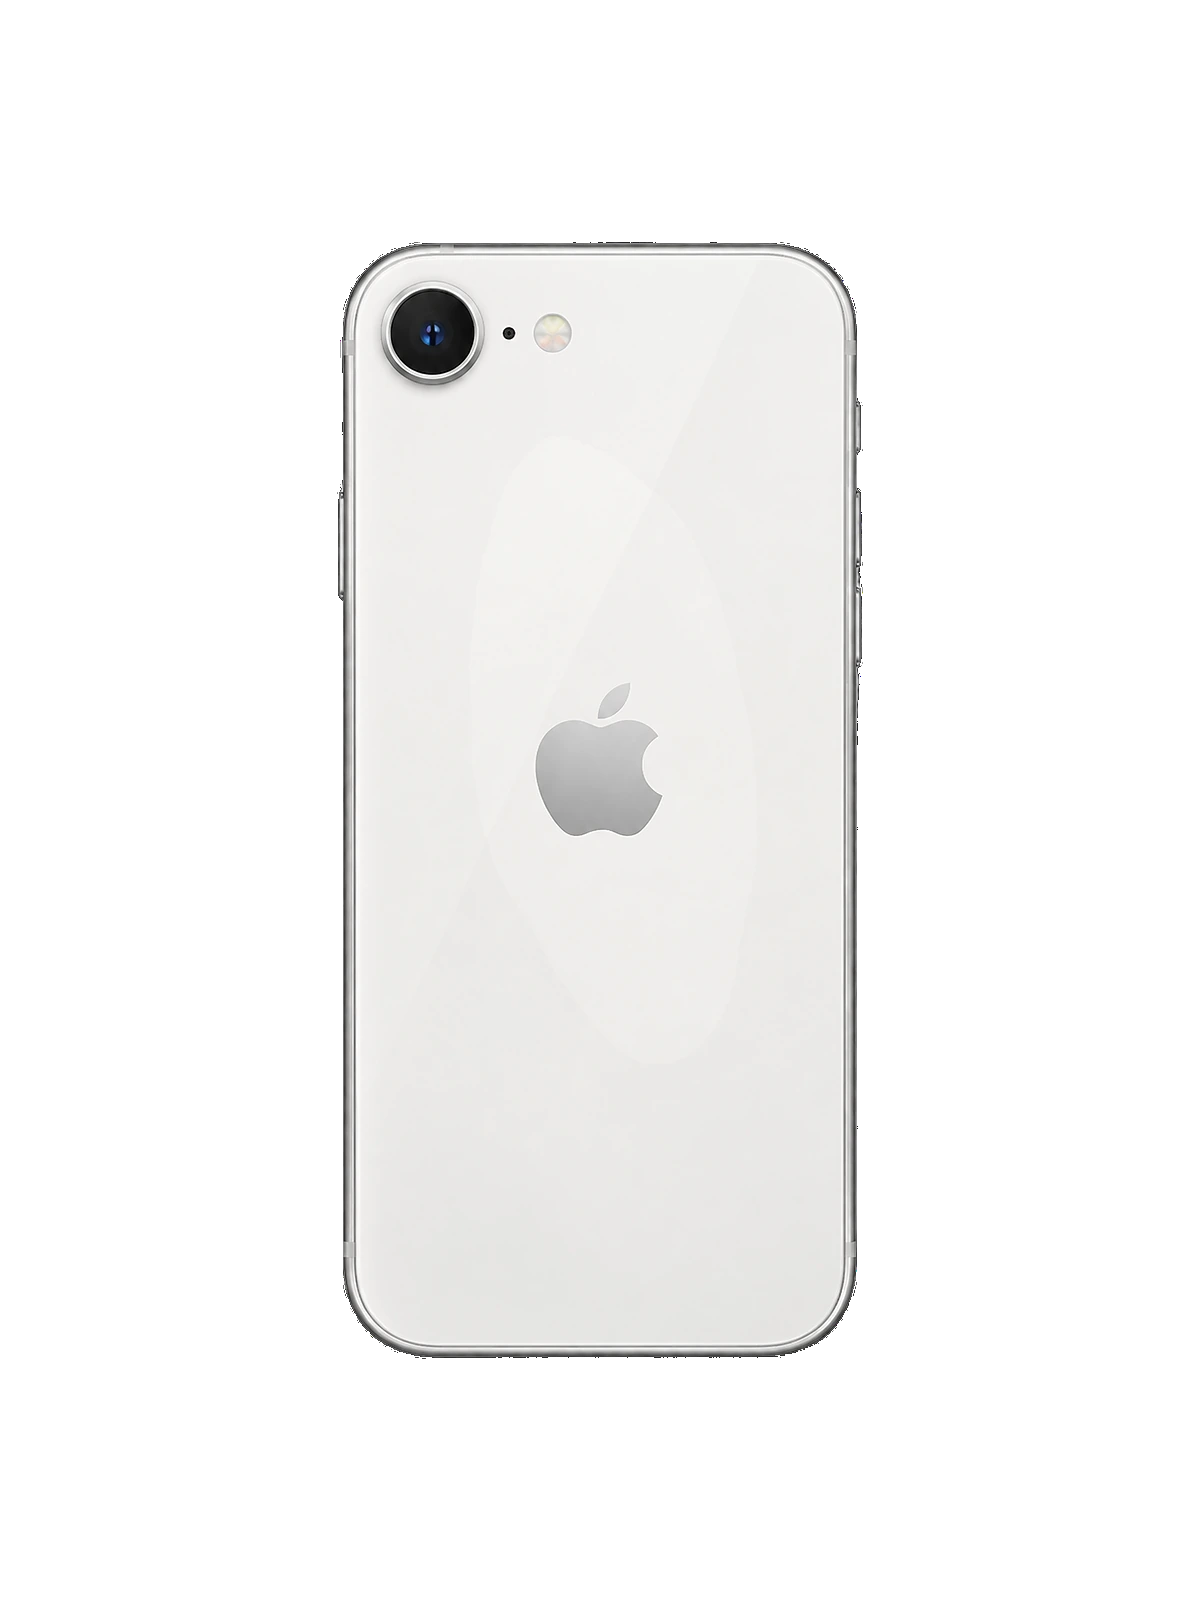
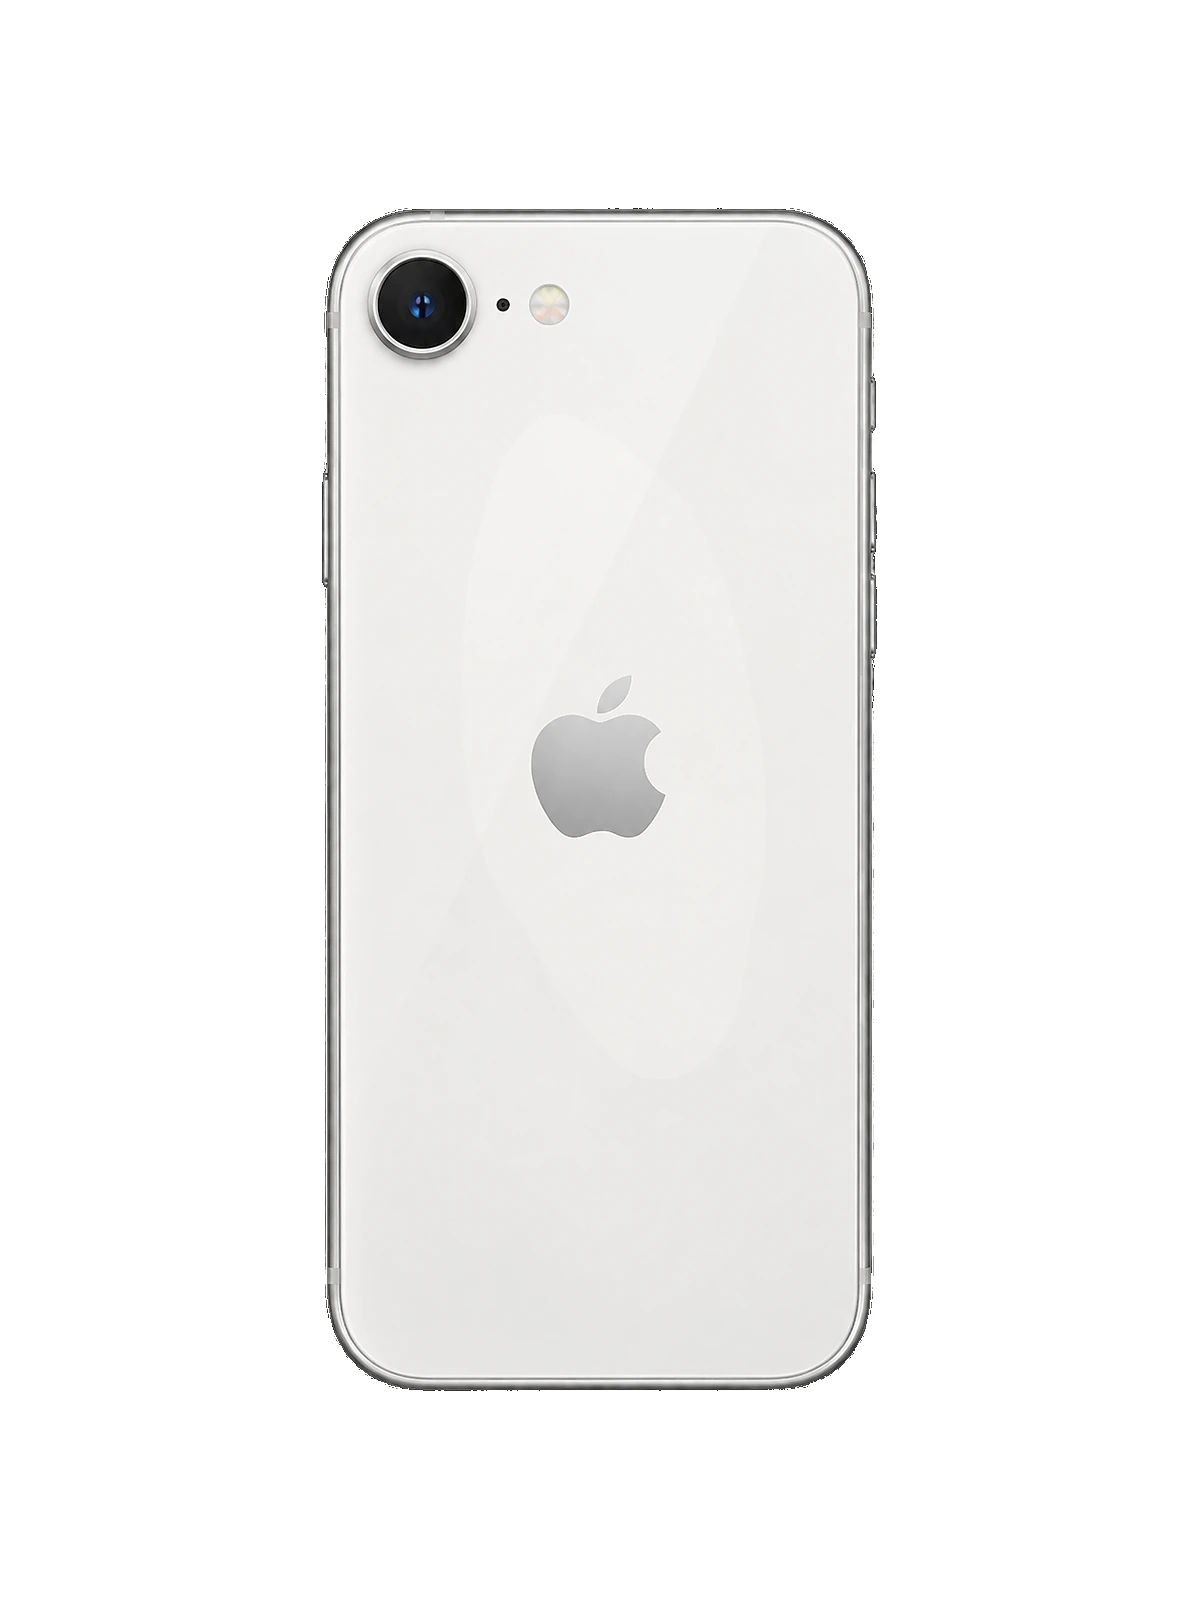
Fix iPhone SE 4 catalog scale to iPhone 14 body height
SE (4.ª) uses the iPhone 14 chassis (146.7 mm), not the compact SE 3
body (138.4 mm). Re-mount front/back shots at 1185 px phone height on the
1200×1600 canvas and document SE lineage sizes in the catalog README.

Changed region(s): [[0.2467, 0.125, 0.74, 0.875], [0.4933, 0.4375, 0.555, 0.4688], [0.4317, 0.4375, 0.4625, 0.5]]

diff --git a/src/lib/iphone-catalog.test.ts b/src/lib/iphone-catalog.test.ts
@@ -444,4 +444,13 @@ describe("catalogPhoneRenderHeight", () => {
     assert.ok(e < seventeen);
     assert.ok(seventeen < air && air < proMax);
   });
+
+  it("sizes SE (4.ª) on the iPhone 14 chassis, larger than SE (3.ª)", () => {
+    const se3 = catalogPhoneRenderHeight("iphone-se-3");
+    const se4 = catalogPhoneRenderHeight("iphone-se-4");
+    const fourteen = catalogPhoneRenderHeight("iphone-14");
+
+    assert.equal(se4, fourteen);
+    assert.ok(se4 > se3);
+  });
 });

diff --git a/src/lib/iphone-catalog-images.ts b/src/lib/iphone-catalog-images.ts
@@ -30,7 +30,7 @@ export const CATALOG_PHONE_BODY_MM: Record<string, number> = {
   "iphone-13-pro": 146.7,
   "iphone-13-pro-max": 160.8,
   "iphone-se-3": 138.4,
-  "iphone-se-4": 138.4,
+  "iphone-se-4": 146.7,
   "iphone-14": 146.7,
   "iphone-14-plus": 160.8,
   "iphone-14-pro": 147.5,

diff --git a/public/catalog/README.md b/public/catalog/README.md
@@ -70,8 +70,12 @@ iPhone 17 series (display diagonal → body):
 | iPhone 17 Pro Max | 6.9"    | 163.4 mm    | 1320 px (max)       |
 | iPhone 17e        | 6.1"    | 146.7 mm    | ~1185 px            |
 | iPhone Air        | 6.5"    | 156.2 mm    | ~1262 px            |
+| iPhone SE (3.ª)   | 4.7"    | 138.4 mm    | ~1118 px            |
+| iPhone SE (4.ª)   | 6.1"    | 146.7 mm    | ~1185 px            |
 
 The 6.5" phone in Apple's 17-family size chart is **Air**, not 17e.
+
+SE (4.ª) shares the iPhone 14 chassis height (146.7 mm), not the compact SE (3.ª) body (138.4 mm).
 
 Use this scale for every later model. Do not draw all phones the same size.
 
